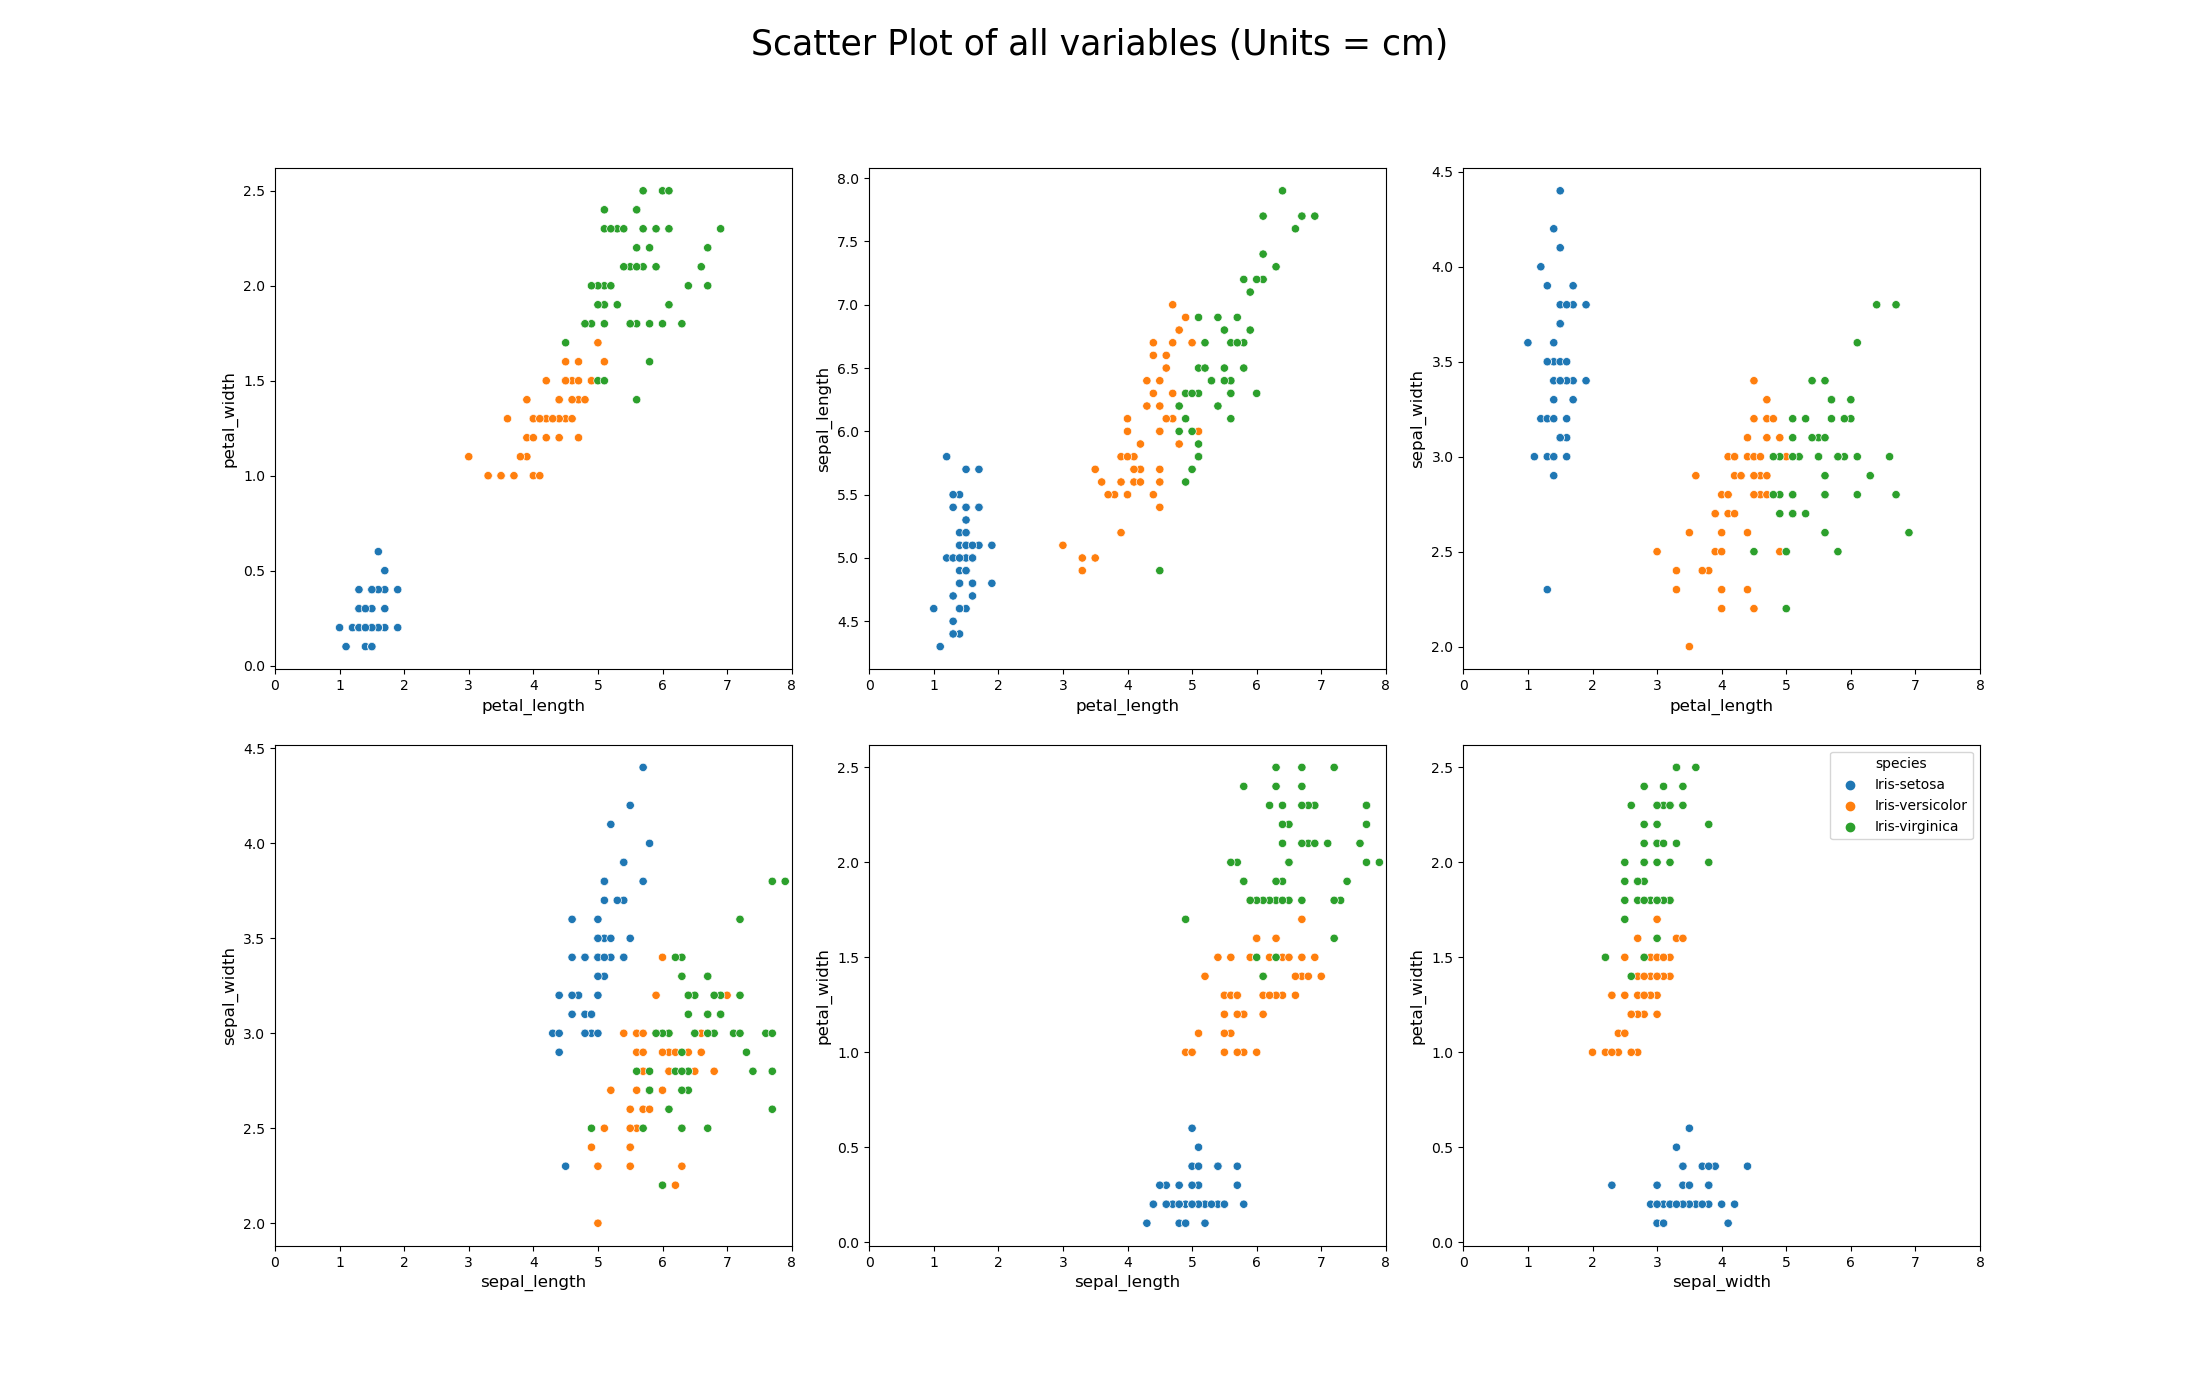
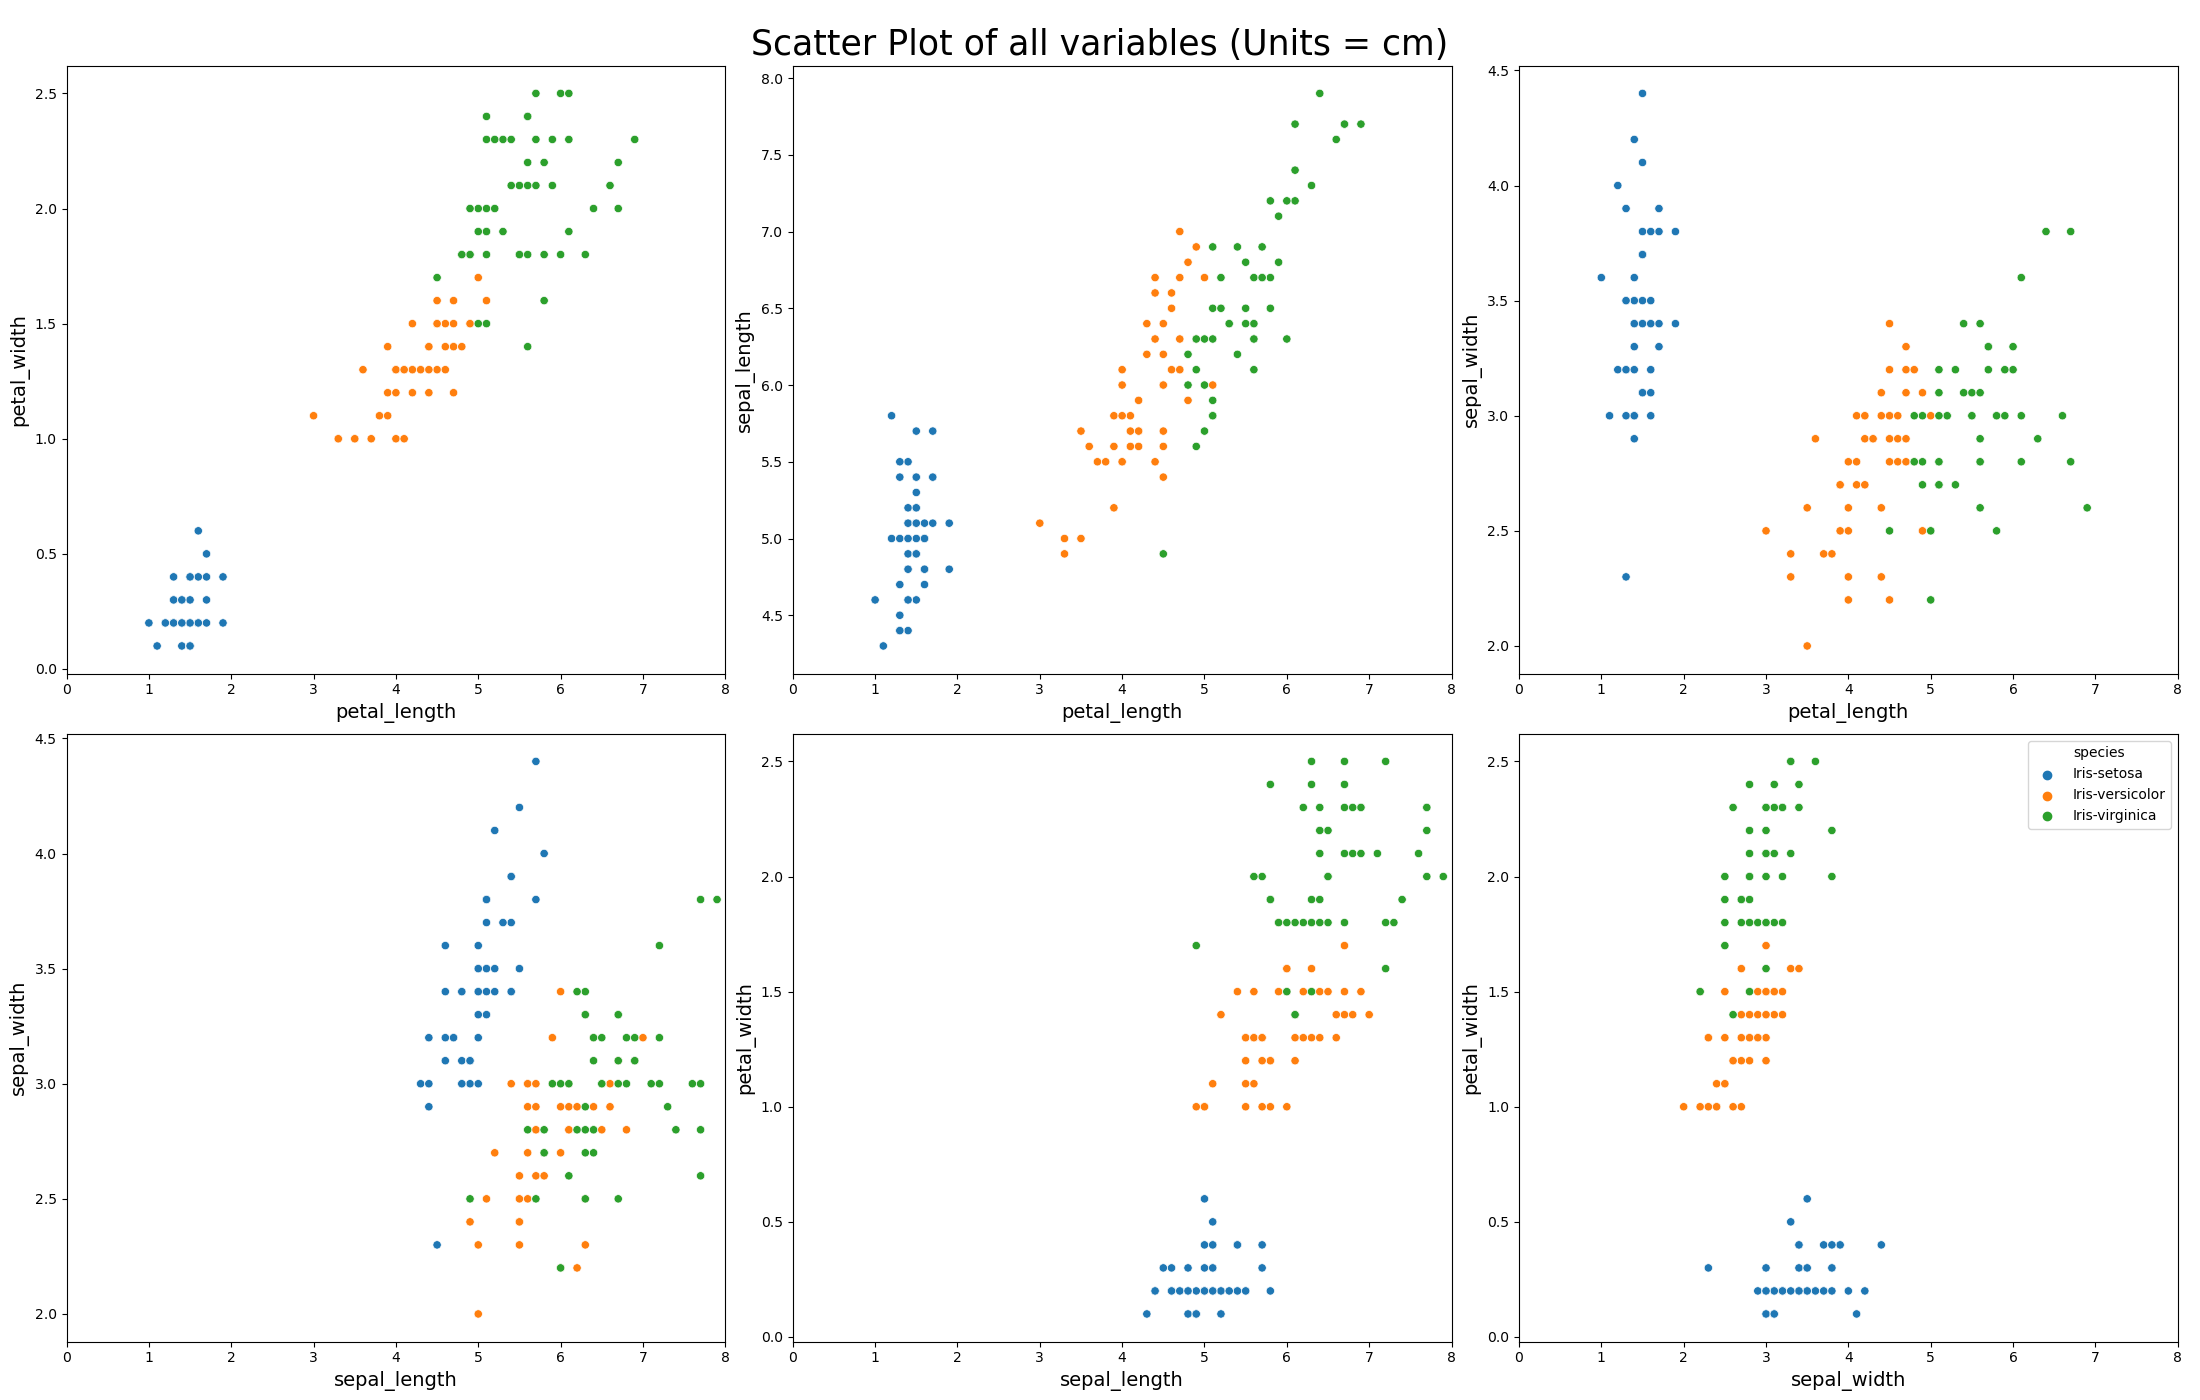
test

diff --git a/Project/analysis.py b/Project/analysis.py
@@ -62,7 +62,7 @@ def write_plot(plot,file_name):
 def scatter_plot(): 
 
     fig, axes = plt.subplots(2, 3, figsize=(22, 14))
-    plt.subplots_adjust(wspace=0.15,hspace=0.15)#  hspace=0.3
+    plt.subplots_adjust(wspace=0.2,hspace=0.2)#  hspace=0.3
     fig.suptitle('Scatter Plot of all variables (Units = cm)',fontsize = 25)
     
     sns.scatterplot(ax=axes[0, 0], data=iris_df, x='petal_length', y='petal_width', hue = 'species',legend = False)
@@ -71,13 +71,13 @@ def scatter_plot():
     sns.scatterplot(ax=axes[1, 0], data=iris_df, x='sepal_length', y='sepal_width', hue = 'species',legend = False)
     sns.scatterplot(ax=axes[1, 1], data=iris_df, x='sepal_length', y='petal_width', hue = 'species',legend = False)
     sns.scatterplot(ax=axes[1, 2], data=iris_df, x='sepal_width',  y='petal_width', hue = 'species')
-    #fig.tight_layout()
+    fig.tight_layout()
 
     for ax in plt.gcf().axes:
         x = ax.get_xlabel()
         y = ax.get_ylabel()
-        ax.set_xlabel(x, fontsize=12)
-        ax.set_ylabel(y, fontsize=12)
+        ax.set_xlabel(x, fontsize=14)
+        ax.set_ylabel(y, fontsize=14)
         ax.set_xlim((0,8))
          
     plt.savefig('Images/' + 'scatter_plots' +'.png')
@@ -97,8 +97,8 @@ def plot_histograms():
     for ax in plt.gcf().axes:
         x = ax.get_xlabel()
         y = ax.get_ylabel()
-        ax.set_xlabel(x, fontsize=15)
-        ax.set_ylabel(y, fontsize=15) 
+        ax.set_xlabel(x, fontsize=17)
+        ax.set_ylabel(y, fontsize=17) 
         ax.set_xlim((0,8))
 
     plt.savefig('Images/' + 'histograms' +'.png')
